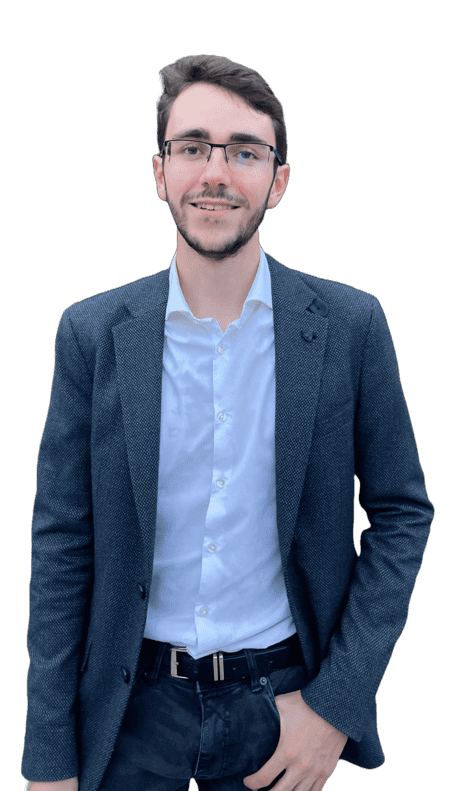
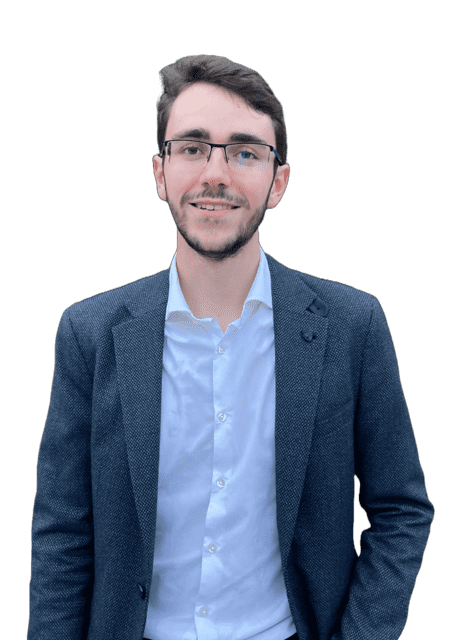
fix: landing page sizing

diff --git a/src/app/pages/home/home.component.scss b/src/app/pages/home/home.component.scss
@@ -17,7 +17,7 @@
         z-index: 1;
 
         h1 {
-            font-size: 5.5rem;
+            font-size: 5.5vw;
             font-weight: 700;
             margin-bottom: 1rem;
             text-align: left;
@@ -49,6 +49,8 @@
     .image-container {
         position: relative;
         align-self: flex-end;
+        height: 100%;
+        aspect-ratio: 449 / 640;
         z-index: 0;
 
         .image-bg {
@@ -63,10 +65,14 @@
             box-shadow: rgba(50, 50, 93, 0.25) 0px 50px 100px -20px, rgba(0, 0, 0, 0.3) 0px 30px 60px -30px;
         }
 
-        img {
-            margin: -50px 0 -100px -50px;
-            width: 33rem;
-            object-fit: cover;
+        .image-fg {
+            margin: -0.25rem 0 0 -0.5rem;
+            width: 100%;
+            height: 102%;
+            background-image: url(../../../assets/profile_pic_transparent_compressed.png), url(../../../assets/profile_pic_transparent_compressed_low.png);
+            background-position: center;
+            background-repeat: no-repeat;
+            background-size: contain;
         }
     }
 

diff --git a/src/app/pages/home/home.component.html b/src/app/pages/home/home.component.html
@@ -13,7 +13,7 @@
     </div>
     <div class="image-container"@slideFadeFromBottom>
         <div class="image-bg"></div>
-        <img srcset="../../../assets/profile_pic_transparent_compressed.png" alt="profil-pic">
+        <div class="image-fg" alt="profil-pic"></div>
     </div>
     <div class="intro" @slideFadeFromRight>
         <h2>Ingénieur aérospatial</h2>

diff --git a/src/app/pages/cv/cv.component.scss b/src/app/pages/cv/cv.component.scss
@@ -2,6 +2,8 @@
   display: flex;
   justify-content: center;
   align-items: center;
+  padding-top: 0.5rem;
+  overflow: visible;
   gap: 2rem;
 
   .cv {
